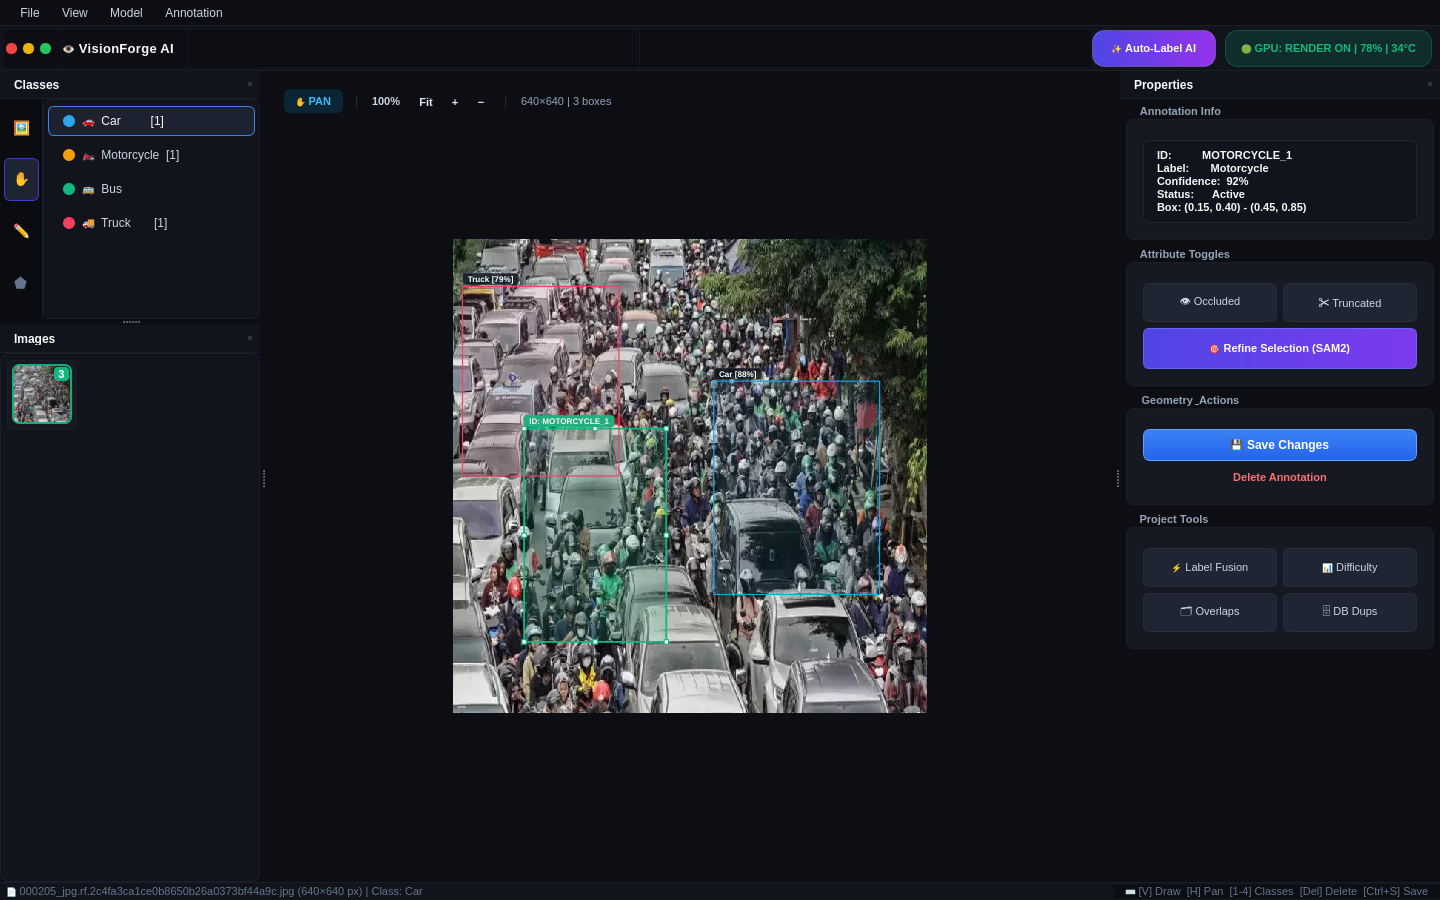
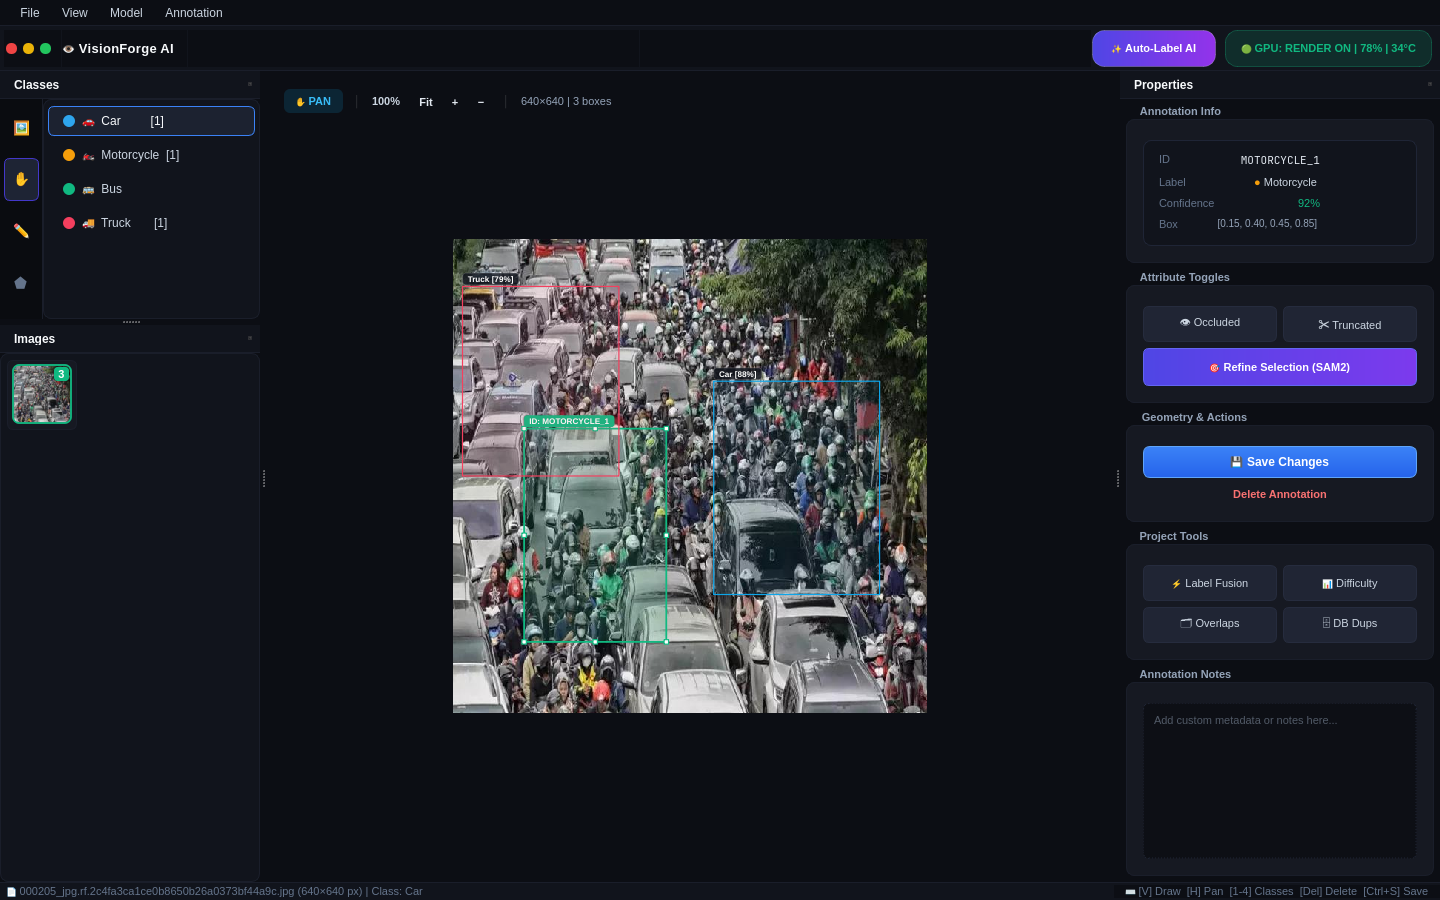
Redesign Annotation Info as a modern HTML table, fix ampersand in group title, and add an expanding Notes area to gracefully fill the properties dock

diff --git a/app/ui/main_window.py b/app/ui/main_window.py
@@ -1138,7 +1138,7 @@ class MainWindow(QMainWindow):
         self._properties_layout.addWidget(self._crop_group)
 
         # 4. Geometry & Actions Card
-        self._review_group = QGroupBox("Geometry & Actions")
+        self._review_group = QGroupBox("Geometry && Actions")
         review_layout = QVBoxLayout(self._review_group)
         review_layout.setContentsMargins(8, 8, 8, 8)
         review_layout.setSpacing(6)
@@ -1198,7 +1198,21 @@ class MainWindow(QMainWindow):
         project_layout.addLayout(clean_row)
 
         self._properties_layout.addWidget(self._project_group)
-        self._properties_layout.addStretch()
+
+        # 6. Notes / Metadata Card (Expands to fill remaining space)
+        self._notes_group = QGroupBox("Annotation Notes")
+        self._notes_group.setSizePolicy(QSizePolicy.Policy.Expanding, QSizePolicy.Policy.Expanding)
+        notes_layout = QVBoxLayout(self._notes_group)
+        notes_layout.setContentsMargins(8, 8, 8, 8)
+        
+        from PySide6.QtWidgets import QTextEdit
+        self._notes_edit = QTextEdit()
+        self._notes_edit.setPlaceholderText("Add custom metadata or notes here...")
+        self._notes_edit.setStyleSheet(
+            "QTextEdit { background: #0d0f15; border: 1px dashed #1e2434; border-radius: 6px; padding: 6px; color: #94a3b8; font-size: 11px; }"
+        )
+        notes_layout.addWidget(self._notes_edit)
+        self._properties_layout.addWidget(self._notes_group)
 
         # Backward compatibility for _property_group_layouts
         self._property_group_layouts["Review && Cleanup"] = review_layout
@@ -1228,6 +1242,9 @@ class MainWindow(QMainWindow):
                 self._truncated_btn.blockSignals(False)
             if hasattr(self, "_refine_sam2_btn"):
                 self._refine_sam2_btn.setEnabled(False)
+            if hasattr(self, "_notes_edit"):
+                self._notes_edit.setEnabled(False)
+                self._notes_edit.clear()
             return
 
         annotation = next(
@@ -1256,6 +1273,9 @@ class MainWindow(QMainWindow):
                 self._truncated_btn.blockSignals(False)
             if hasattr(self, "_refine_sam2_btn"):
                 self._refine_sam2_btn.setEnabled(False)
+            if hasattr(self, "_notes_edit"):
+                self._notes_edit.setEnabled(False)
+                self._notes_edit.clear()
             return
 
         ann_id_short = (
@@ -1265,16 +1285,35 @@ class MainWindow(QMainWindow):
         )
         conf_str = f"{annotation.confidence * 100:.0f}%" if annotation.confidence is not None else "94%"
         box = annotation.box
-        self._selection_info_label.setText(
-            f"ID:          {annotation.class_name.upper()}_{ann_id_short}\n"
-            f"Label:       {annotation.class_name.capitalize()}\n"
-            f"Confidence:  {conf_str}\n"
-            f"Status:      Active\n"
-            f"Box: ({box.left:.2f}, {box.top:.2f}) - ({box.right:.2f}, {box.bottom:.2f})"
-        )
+        color = AnnotationCanvas.CLASS_COLORS.get(annotation.class_name, "#29b6f6")
+
+        html = f"""
+        <table style="width: 100%; border-spacing: 0px; margin: 0px;">
+            <tr>
+                <td style="color: #64748b; padding-bottom: 6px;">ID</td>
+                <td style="text-align: right; font-family: monospace; color: #e2e8f0; padding-bottom: 6px;">{annotation.class_name.upper()}_{ann_id_short.upper()}</td>
+            </tr>
+            <tr>
+                <td style="color: #64748b; padding-bottom: 6px;">Label</td>
+                <td style="text-align: right; padding-bottom: 6px;">
+                    <span style="color: {color};">●</span> {annotation.class_name.capitalize()}
+                </td>
+            </tr>
+            <tr>
+                <td style="color: #64748b; padding-bottom: 6px;">Confidence</td>
+                <td style="text-align: right; color: #10b981; padding-bottom: 6px;">{conf_str}</td>
+            </tr>
+            <tr>
+                <td style="color: #64748b; padding-bottom: 2px;">Box</td>
+                <td style="text-align: right; color: #94a3b8; font-size: 10px; padding-bottom: 2px;">
+                    [{box.left:.2f}, {box.top:.2f}, {box.right:.2f}, {box.bottom:.2f}]
+                </td>
+            </tr>
+        </table>
+        """
+        self._selection_info_label.setText(html)
         self._selection_info_label.setStyleSheet(
-            "color: #f8fafc; font-size: 11px; font-weight: 600; line-height: 1.4; "
-            "background: #11141c; border: 1px solid #1f2536; border-radius: 6px; padding: 8px 10px;"
+            "QLabel { background: #11141c; border: 1px solid #1f2536; border-radius: 8px; padding: 10px; font-size: 11px; font-weight: 500; }"
         )
         if hasattr(self, "_occluded_btn"):
             self._occluded_btn.blockSignals(True)
@@ -1292,6 +1331,8 @@ class MainWindow(QMainWindow):
                 "background: qlineargradient(x1:0, y1:0, x2:1, y2:0, stop:0 #4f46e5, stop:1 #7c3aed); "
                 "color: #ffffff; font-weight: 700; font-size: 11px; border-radius: 6px; padding: 6px 12px; border: 1px solid #6366f1;"
             )
+        if hasattr(self, "_notes_edit"):
+            self._notes_edit.setEnabled(True)
 
 
 
